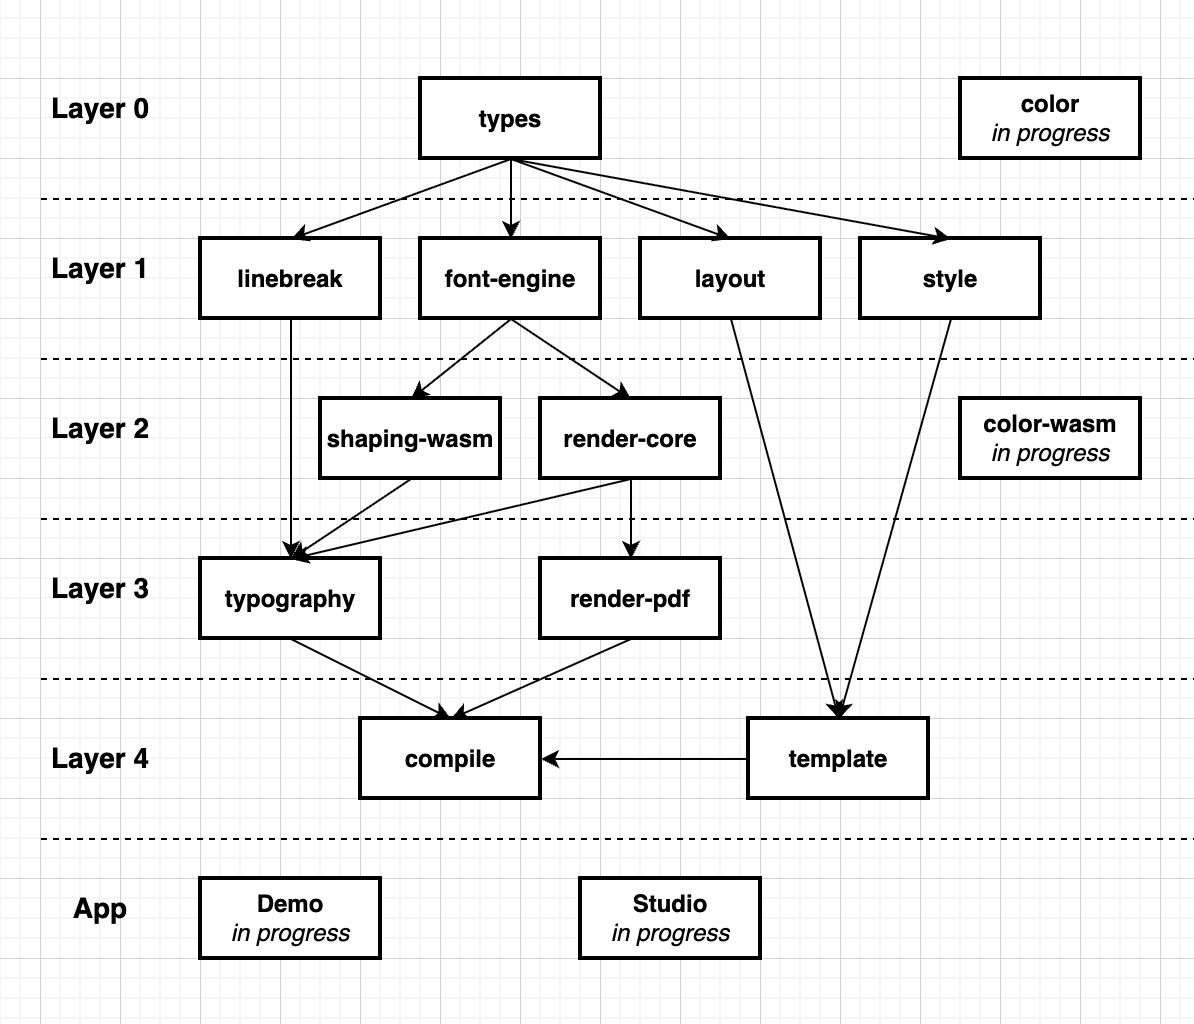
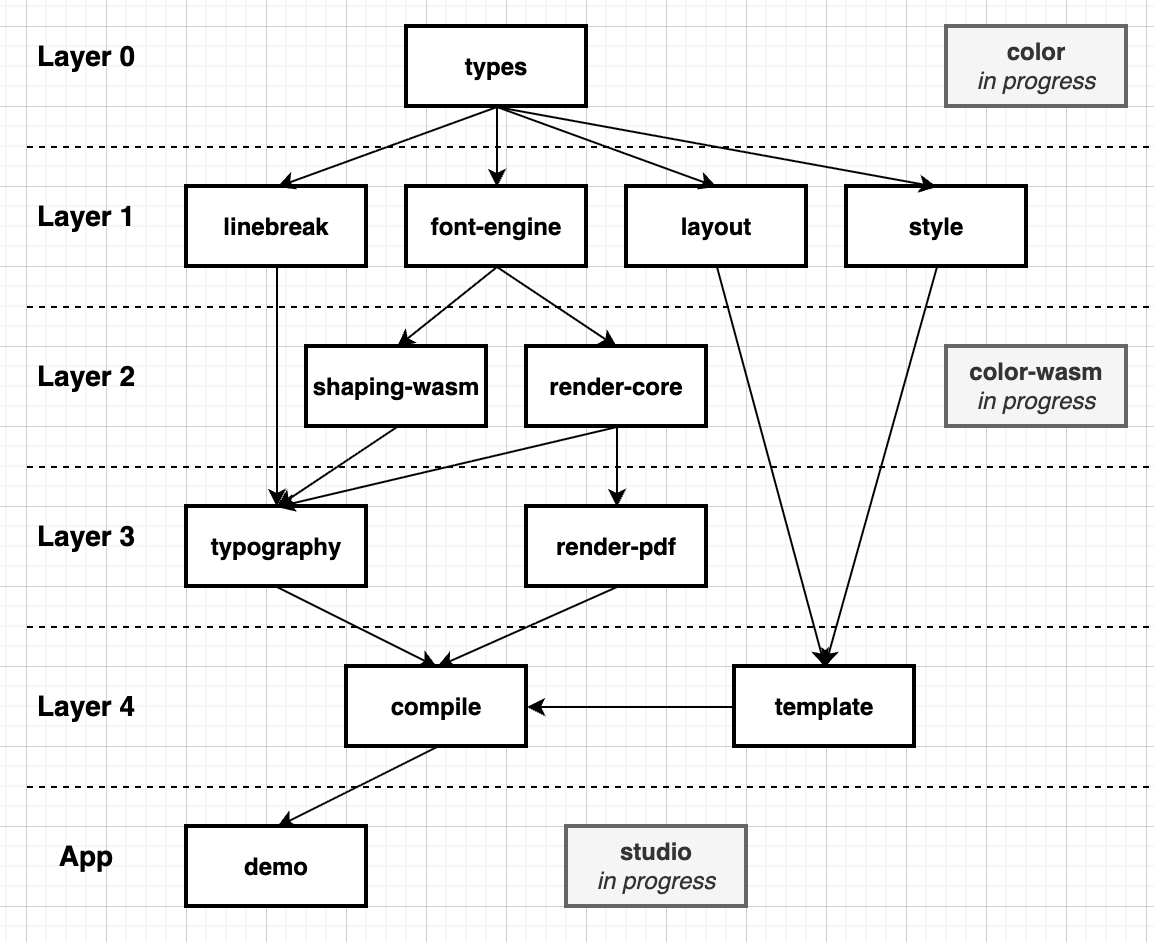
root readme update

diff --git a/README.md b/README.md
@@ -25,9 +25,17 @@ Generating documents programmatically in Node.js means choosing between:
 
 The core of every professional typesetting engine — InDesign, TeX, QuarkXPress — is the **Knuth-Plass algorithm**: solve the entire paragraph at once, minimising total spacing deviation across all lines simultaneously. The difference is visible:
 
-![Knuth-Plass vs Greedy](docs/KP-Greedy.png)
+Every JavaScript library uses a greedy algorithm — fill each line as full as possible, no lookahead. It's fast and simple, but it produces rivers of white space and inconsistent line density. But optimal line breaking is only one layer. Five things together separate paragraf from any other JavaScript output library:
 
-Every JavaScript library uses a greedy algorithm — fill each line as full as possible, no lookahead. It's fast and simple, but it produces rivers of white space and inconsistent line density. paragraf uses Knuth-Plass with **real font metrics**: actual OpenType glyph advances from a Rust/WASM shaper (rustybuzz, the same shaping engine used by Firefox and Servo), not canvas measurement approximations or character-count estimates.
+**Real text shaping.** Most libraries measure text with a canvas element or multiply character count by an average advance width. paragraf runs rustybuzz — a Rust port of HarfBuzz, the same shaping engine used by Firefox, Chrome, and Android — for every text run. GSUB ligature substitution, GPOS kerning, correct Arabic/Hebrew advance widths, per-run OpenType feature flags. The output is metrically identical to what a desktop application produces, not an approximation.
+
+**Optical margin alignment.** A two-pass algorithm that protrudes punctuation and soft-hyphens partially into the page margin, then re-runs Knuth-Plass with the adjusted column widths. The result is a visually flush edge on justified text — the technique InDesign calls "optical margin alignment" and TeX calls `\pdfprotrudechars`. No other JavaScript library implements this.
+
+**ICC colour management.** `@paragraf/color` implements the full ICC transform pipeline: profile parsing, sRGB → CIE Lab → CMYK conversion, and tetrahedral LUT interpolation for device-specific output profiles. CMYK with correct profile transforms is a hard requirement for commercial printing. No other Node.js PDF library provides this.
+
+**Style inheritance.** `@paragraf/style` provides InDesign-equivalent paragraph styles and character styles with cascading inheritance — derived styles override only what they change, in a named style registry. This is what makes template-driven documents maintainable at scale.
+
+**A single entry point for the full pipeline.** `@paragraf/compile` orchestrates all layers — font discovery, style registry, page geometry, paragraph composition, glyph layout, PDF/SVG output — behind one `compile()` call. You can drive the entire pipeline from a template definition and a data object, or drop in at any layer for custom workflows.
 
 ---
 
@@ -53,7 +61,7 @@ Every JavaScript library uses a greedy algorithm — fill each line as full as p
 
 ## Packages
 
-Eight packages in strict layers. Each package only imports from layers below it.
+Twelve packages in strict layers. Each package only imports from layers below it.
 
 | Folder | Package | What it does | Env |
 |---|---|---|:---:|
@@ -61,32 +69,85 @@ Eight packages in strict layers. Each package only imports from layers below it.
 | `0-color/` | `@paragraf/color` | ICC colour profiles, sRGB/Lab/CMYK spaces, LUT interpolation | both |
 | `1a-linebreak/` | `@paragraf/linebreak` | Knuth-Plass algorithm, 22-language hyphenation, traceback, node builder | both |
 | `1b-font-engine/` | `@paragraf/font-engine` | FontEngine interface, fontkit adapter, measurer factory | both |
+| `1c-layout/` | `@paragraf/layout` | Page geometry, unit converters (mm/in/cm), named page sizes (A4, Letter…) | both |
+| `1d-style/` | `@paragraf/style` | Paragraph and character style definitions with cascading inheritance | both |
 | `2a-shaping-wasm/` | `@paragraf/shaping-wasm` | Rust/WASM OpenType shaper (rustybuzz): GSUB ligatures, GPOS kerning, sups/subs | Node |
 | `2b-render-core/` | `@paragraf/render-core` | Glyph layout → SVG / Canvas, document types | both |
 | `3a-typography/` | `@paragraf/typography` | Paragraph compositor, OMA, BiDi, document model | Node |
 | `3b-render-pdf/` | `@paragraf/render-pdf` | PDF output via pdfkit, selectable text overlay | Node |
+| `4a-template/` | `@paragraf/template` | Document schema: named content slots, style bindings, page size declarations | Node |
+| `4b-compile/` | `@paragraf/compile` | Full pipeline: template + data + fonts → PDF / SVG / RenderedDocument | Node |
 
 ---
 
 ## Architecture
 
-```
-0-types ──────────────────────────────────────────┐
-   │                                               │
-1a-linebreak        1b-font-engine ────────────────┤
-   │                   │          │                │
-   │           2a-shaping-wasm  2b-render-core     │
-   │                   │          │                │
-   └───────────────────┴──────────┘                │
-                       │                           │
-             3a-typography              3b-render-pdf
-```
+![paragraf architecture](docs/architecture.png)
 
 `3a-typography` and `3b-render-pdf` are true layer-3 siblings — neither depends on the other. `RenderedDocument` / `RenderedPage` live in `2b-render-core` so `render-pdf` works without `typography` for simpler pipelines.
+
+Layer 4 (`4a-template`, `4b-compile`) sits above both. `@paragraf/compile` is the highest-level entry point — it drives the full pipeline from a template definition and a data object to PDF, SVG, or a `RenderedDocument`, with no boilerplate.
 
 ---
 
 ## Quick start
+
+### High-level API (`@paragraf/compile`)
+
+The fastest path from data to PDF. One call drives the entire pipeline — font loading, style resolution, page geometry, Knuth-Plass composition, glyph layout, and rendering.
+
+```bash
+npm install @paragraf/compile
+```
+
+```ts
+import { defineTemplate, compile } from '@paragraf/compile';
+import { writeFileSync } from 'fs';
+
+const template = defineTemplate({
+  layout: { size: 'A4', margins: 72 },
+  fonts: {
+    'SourceSerif4': {
+      regular: './fonts/SourceSerif4-Regular.ttf',
+      bold:    './fonts/SourceSerif4-Bold.ttf',
+    },
+  },
+  styles: {
+    body: {
+      font:       { family: 'SourceSerif4', size: 11 },
+      alignment:  'justified',
+      lineHeight: 16,
+    },
+    heading: {
+      font:       { family: 'SourceSerif4', size: 18, weight: 700 },
+      alignment:  'left',
+      lineHeight: 24,
+    },
+  },
+  content: [
+    { style: 'heading', text: '{{title}}' },
+    { style: 'body',    text: '{{body}}' },
+  ],
+});
+
+const result = await compile({
+  template,
+  data: {
+    title: 'Of Wishing',
+    body:  'In olden times when wishing still helped one, there lived a king '
+         + 'whose daughters were all beautiful.',
+  },
+  output: 'pdf',
+});
+
+writeFileSync('output.pdf', result.data as Buffer);
+```
+
+`defineTemplate()` validates the template at definition time (style references, binding syntax, inheritance cycles). `compile()` auto-detects the WASM shaper and falls back to fontkit silently.
+
+### Low-level API (`@paragraf/typography`)
+
+For custom rendering pipelines or when you need direct access to composed lines and glyph positions.
 
 ```bash
 npm install @paragraf/typography @paragraf/render-pdf
@@ -246,14 +307,10 @@ console.log(wasmStatus()); // { status: 'loaded' | 'absent' | 'error' }
 
 ## Status
 
-**v0.3.0 — pre-release.** The core algorithm and rendering pipeline are stable and well-tested (533 unit tests, 22 manual output scripts). APIs may change before v1.0. Not yet published to npm — GitHub only at this stage.
+**v0.5.0 — pre-release.** The core algorithm and rendering pipeline are stable and well-tested (946 unit tests + 25 demo component tests, 23 manual output scripts). APIs may change before v1.0. Not yet published to npm — GitHub only at this stage.
 
 Planned before v1.0:
-- `@paragraf/layout` — page geometry, unit converters (mm/inch/cm), named page sizes
-- `@paragraf/style` — paragraph and character style system with inheritance
-- `@paragraf/template` — document schema and data bindings
-- `@paragraf/compile` — high-level orchestrator: template + data → PDF
-- `@paragraf/color-wasm` — Rust/LCMS2 for ICC profiles and CMYK (print output)
+- `@paragraf/color-wasm` — Rust/LCMS2 for ICC profiles and CMYK (replaces the pure-JS ICC implementation in `@paragraf/color`)
 
 See [`docs/`](docs/) for architecture details, IO schemas, and the document model reference.
 See [`ROADMAP.md`](ROADMAP.md) for the full product roadmap.
